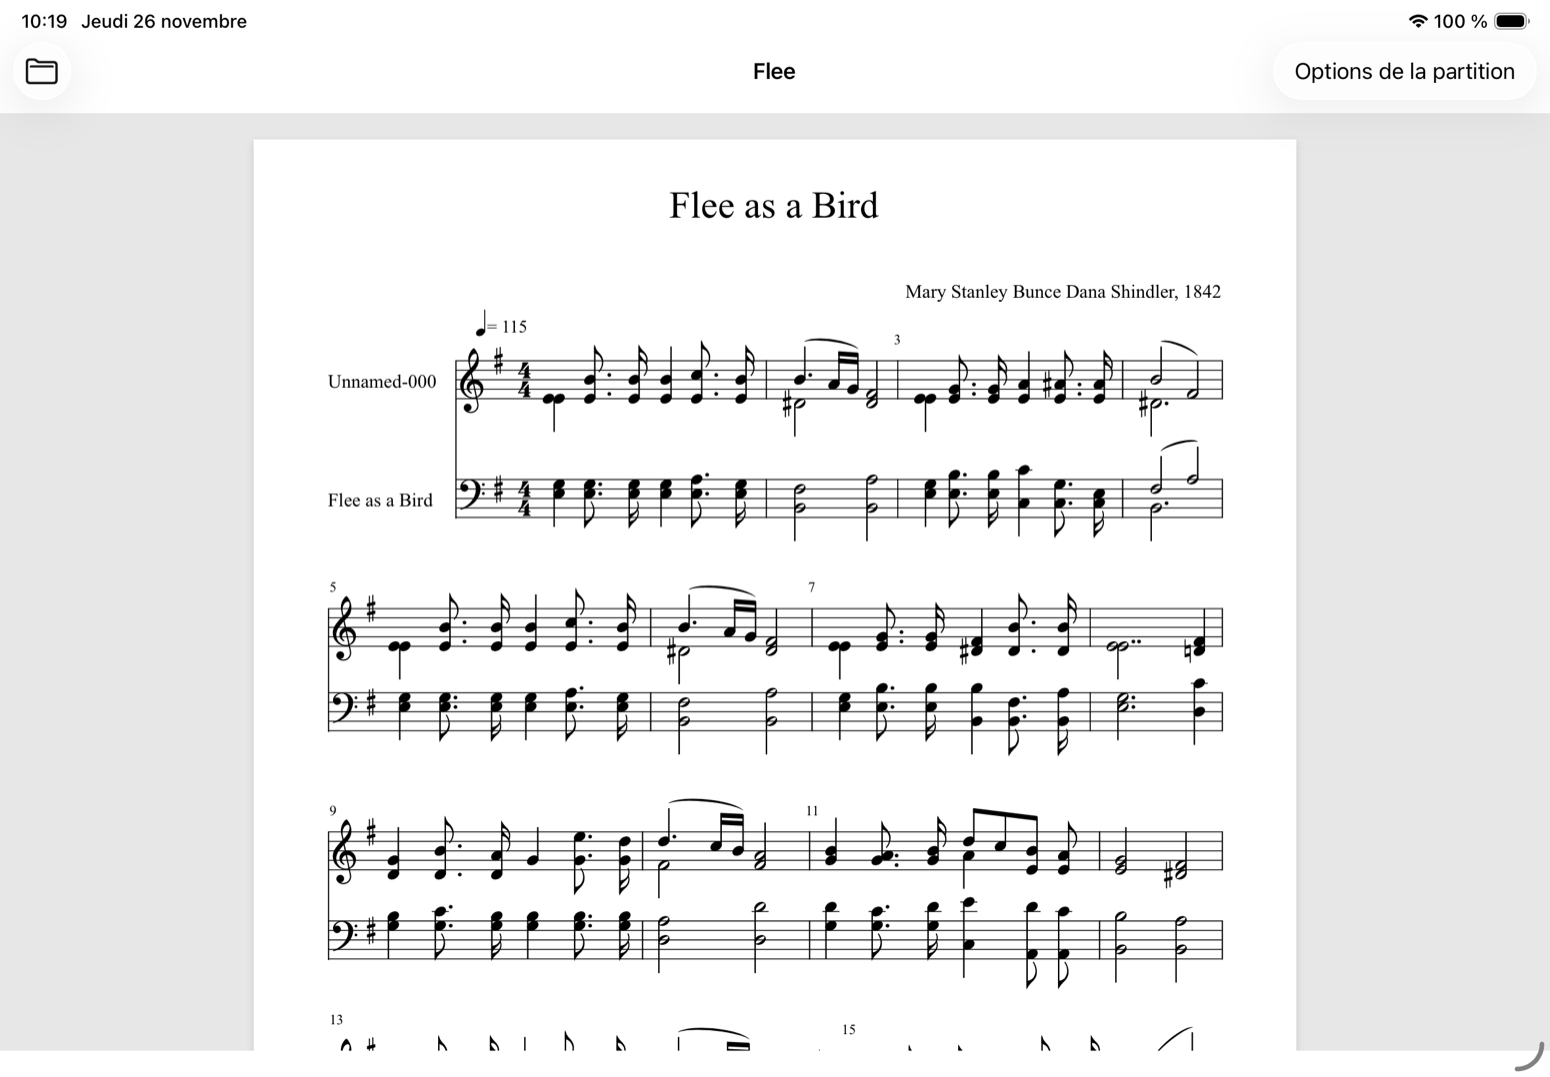
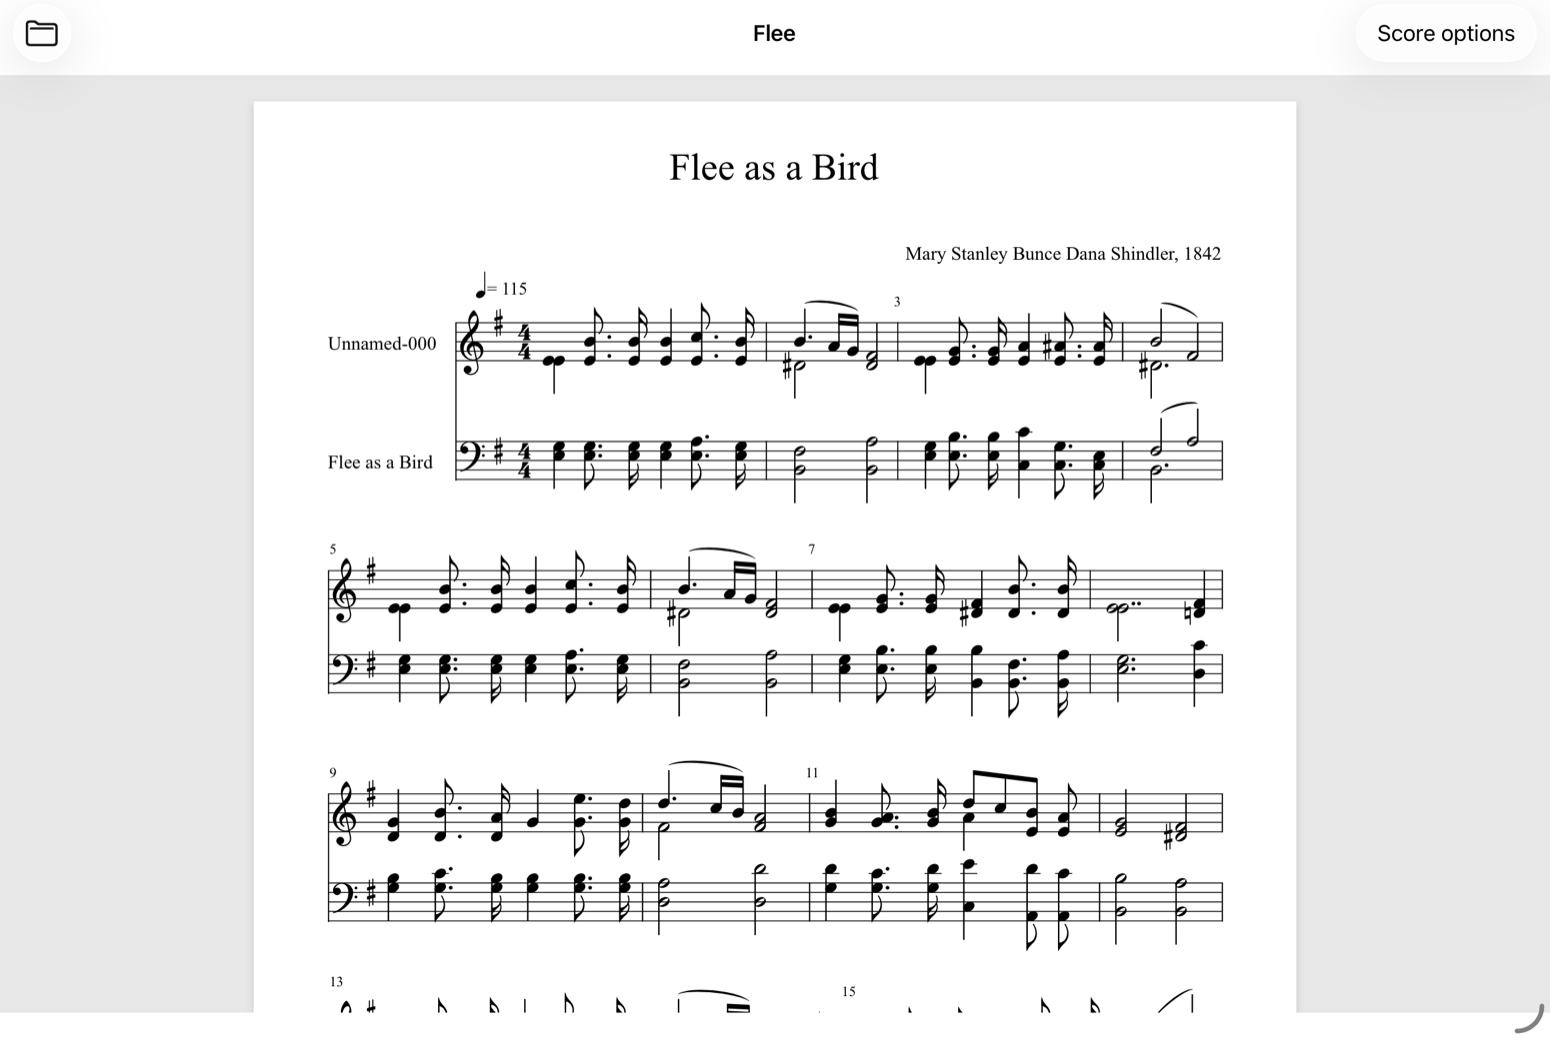
Show the English iPad interface and App Store review status

diff --git a/docs/index.html b/docs/index.html
@@ -16,7 +16,7 @@
 <section class="intro"><div class="copy"><p class="kicker">NoteWorthy Composer file reader</p><h1>Your scores,<br><em>ready to read.</em></h1>
 <p class="lead">Open a <strong>.nwc</strong> file, find your voice and pick up where you left off. Read, print and save sheet music offline on Mac, iPhone and iPad.</p>
 <a class="button" href="#downloads">Get NWC Viewer <span aria-hidden="true">↓</span></a></div>
-<figure><img src="score.png" width="1550" height="1077" alt="Flee as a Bird open in NWC Viewer, with treble and bass staves laid out for reading."></figure></section>
-<section id="downloads"><h2>Downloads</h2><div class="platforms"><article><h3>Mac</h3><p>macOS 13 or later · Intel and Apple silicon</p><a href="https://github.com/quentinlesceller/NWCViewer/releases/download/v1.8/NWCViewer-1.8-macOS.zip">Download for Mac ↓</a><p class="note">Unzip the download and drag NWC Viewer into Applications. Future updates arrive in the app.</p></article><article><h3>iPhone &amp; iPad</h3><p>iOS 16 or iPadOS 16 or later</p><p class="status" id="mobile-status">Public App Store release in preparation.</p><p class="note">Invited beta testers can open TestFlight to install available builds.</p></article></div></section>
+<figure><img src="score.png" width="1550" height="1039" alt="Flee as a Bird open in NWC Viewer, with treble and bass staves laid out for reading."></figure></section>
+<section id="downloads"><h2>Downloads</h2><div class="platforms"><article><h3>Mac</h3><p>macOS 13 or later · Intel and Apple silicon</p><a href="https://github.com/quentinlesceller/NWCViewer/releases/download/v1.8/NWCViewer-1.8-macOS.zip">Download for Mac ↓</a><p class="note">Unzip the download and drag NWC Viewer into Applications. Future updates arrive in the app.</p></article><article><h3>iPhone &amp; iPad</h3><p>iOS 16 or iPadOS 16 or later</p><p class="status" id="mobile-status">Submitted for App Store review. The app will be free to download after approval.</p><p class="note">Invited beta testers can open TestFlight to install available builds.</p></article></div></section>
 <section class="details"><h2>Reading a score</h2><dl><dt>Open your music</dt><dd>Choose the original .nwc file in Finder on Mac or Files on iPhone and iPad. The score is processed on your device.</dd><dt>Follow one part</dt><dd>Select the alto, tenor or another part from the score. Set the number of measures per line and jump between pages using thumbnails.</dd><dt>Print or save a PDF</dt><dd>Your printout and PDF use the voices and layout you chose on screen.</dd><dt>File compatibility</dt><dd>The reader handles compressed and uncompressed binary NWC files. Versions 1.75 and 2.75 have been tested with real scores. Other historical versions and uncommon notation have more limited coverage.</dd></dl></section></main>
 <footer><span>NWC Viewer</span><div><a href="https://github.com/quentinlesceller/NWCViewer/issues">Support</a><a href="https://github.com/quentinlesceller/NWCViewer/blob/main/iPad/Privacy.md">Privacy</a><a href="https://github.com/quentinlesceller/NWCViewer">Source code</a></div></footer></body></html>
